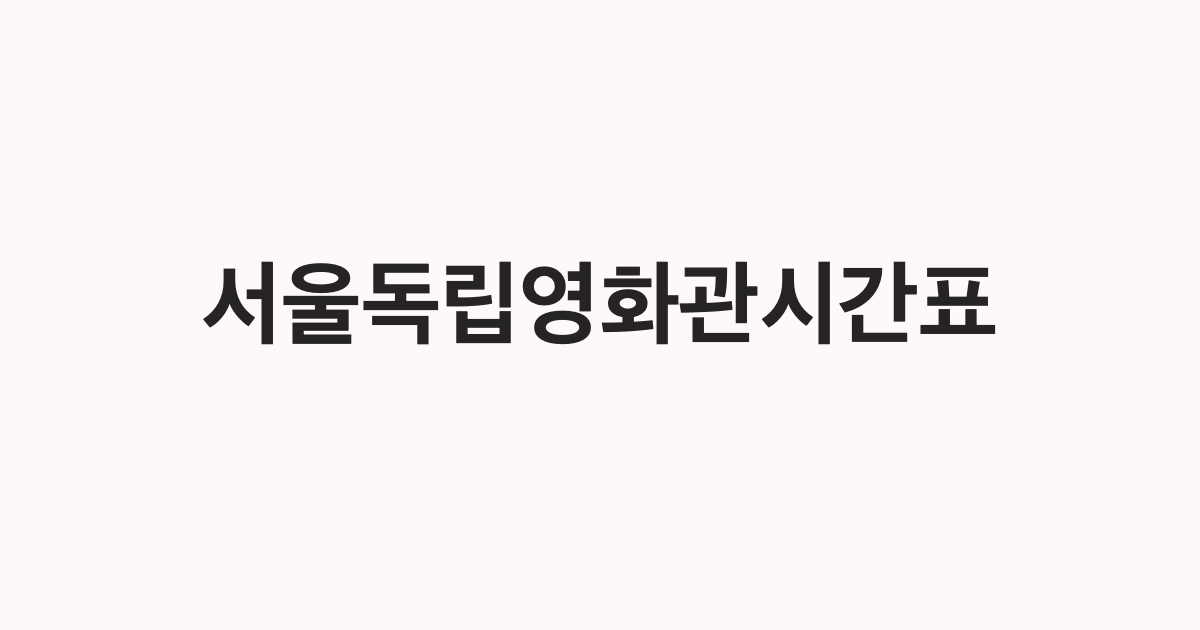
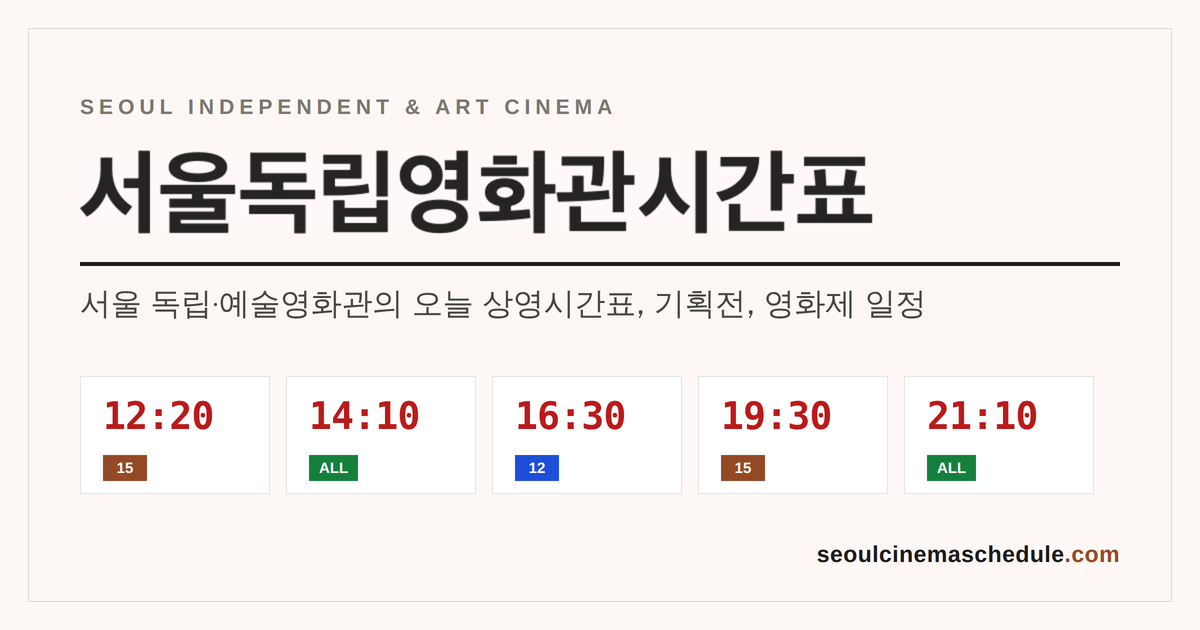
Redesign the link-preview (Open Graph) image
The old preview was only the site title on a blank background. The new
1200x630 image keeps the same title lettering and adds a kicker line, the
site tagline, and a row of showtime cards that mirror the site's own
timetable (red monospaced times with age badges), plus the domain.

Append ?v=2 to the og:image / twitter:image URLs (and the local server's
rewrite and its smoke test) so chat apps that cache previews by URL fetch
the new image.

Claude-Session: https://claude.ai/code/session_01J76ZSoKJMdKzS8rKdzLDNU

diff --git a/index.html b/index.html
@@ -13,8 +13,8 @@
     <meta property="og:title" content="서울독립영화관시간표" />
     <meta property="og:description" content="서울 독립영화관의 오늘 상영시간표, 기획전, 영화제 일정을 날짜별, 영화별, 상영관별로 확인하세요." />
     <meta property="og:url" content="https://seoulcinemaschedule.com/" />
-    <meta property="og:image" content="https://seoulcinemaschedule.com/assets/og-image.png" />
-    <meta property="og:image:secure_url" content="https://seoulcinemaschedule.com/assets/og-image.png" />
+    <meta property="og:image" content="https://seoulcinemaschedule.com/assets/og-image.png?v=2" />
+    <meta property="og:image:secure_url" content="https://seoulcinemaschedule.com/assets/og-image.png?v=2" />
     <meta property="og:image:type" content="image/png" />
     <meta property="og:image:width" content="1200" />
     <meta property="og:image:height" content="630" />
@@ -25,7 +25,7 @@
     <meta name="twitter:card" content="summary_large_image" />
     <meta name="twitter:title" content="서울독립영화관시간표" />
     <meta name="twitter:description" content="서울 독립영화관의 오늘 상영시간표, 기획전, 영화제 일정을 날짜별, 영화별, 상영관별로 확인하세요." />
-    <meta name="twitter:image" content="https://seoulcinemaschedule.com/assets/og-image.png" />
+    <meta name="twitter:image" content="https://seoulcinemaschedule.com/assets/og-image.png?v=2" />
     <title>서울독립영화관시간표</title>
     <script type="application/ld+json">
       {
